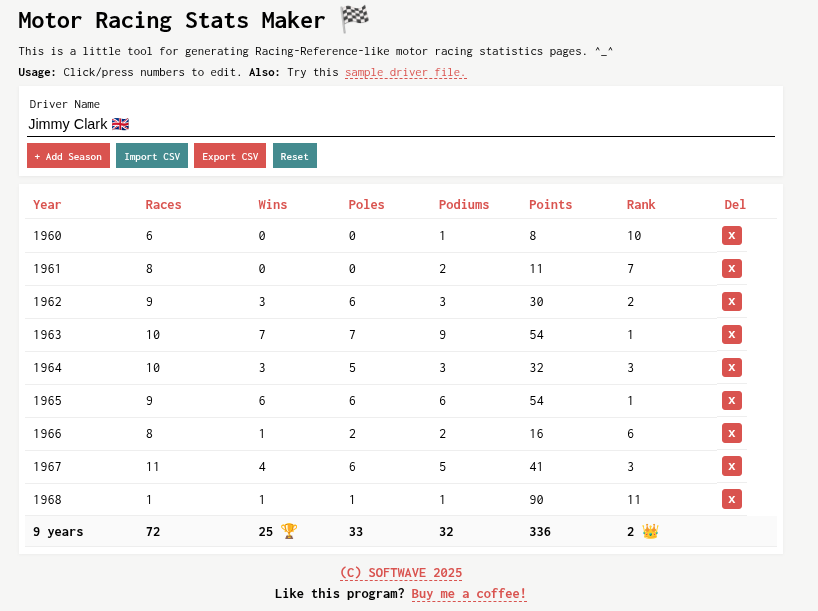
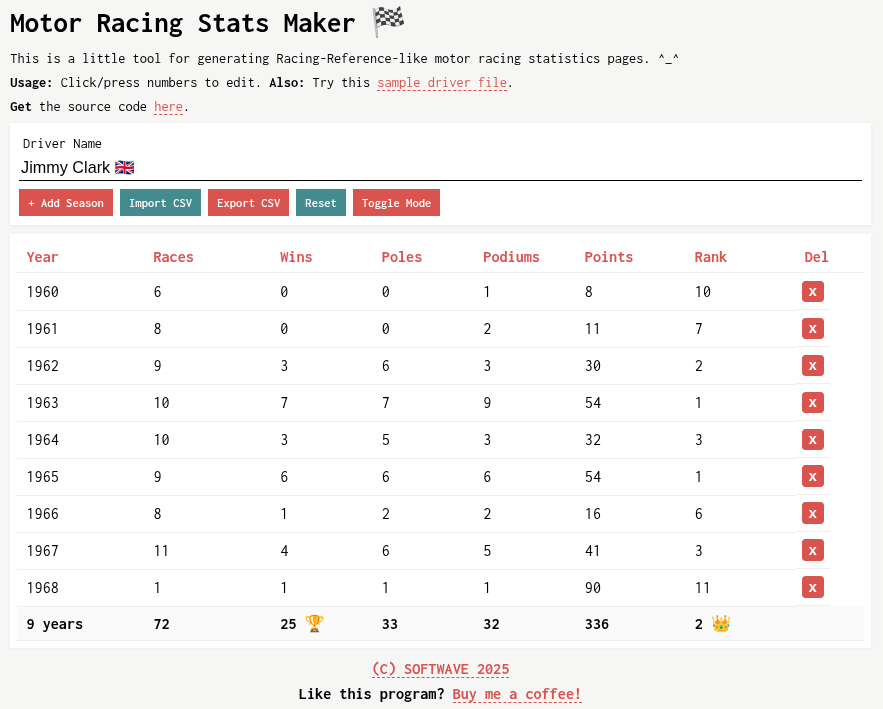
Update

diff --git a/index.html b/index.html
@@ -22,7 +22,8 @@
   <main id="app">
     <h1>Motor Racing Stats Maker 🏁</h1>
     <p>This is a little tool for generating Racing-Reference-like motor racing statistics pages. ^_^</p>
-    <p><strong>Usage:</strong> Click/press numbers to edit. <strong>Also:</strong> Try this <a href="https://s0ftwave.net/Motor-Racing-Stats-Maker/Jimmy_Clark-stats.csv">sample driver file.</a></p>
+    <p><strong>Usage:</strong> Click/press numbers to edit. <strong>Also:</strong> Try this <a href="https://s0ftwave.net/Motor-Racing-Stats-Maker/Jimmy_Clark-stats.csv">sample driver file</a>.</p>
+    <p><strong>Get</strong> the source code <a href="https://github.com/Softwave/Motor-Racing-Stats-Maker">here</a>.</p>
 
     <header class="top">
       <div class="title">
